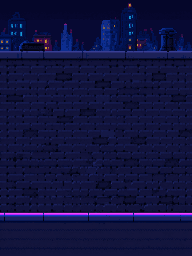
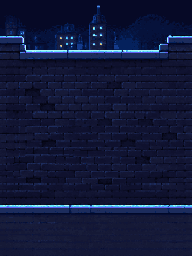
fix(tire_shop): recolor to Night City Props palette, drop magenta/pink
Chief correction: replicate the NEON TIRES mockup's layout/composition
exactly, but always recolor into the game's own locked palette, never
keep the mockup's own colors. The v2/v3 tire_shop build kept the
reference's magenta/pink neon on top of the exact layout - wrong.

- Recoloured all 4 reference crops via HSV hue-remap (magenta/pink band
  -> cyan/lavender band, sat/value preserved) before using them as
  PixelLab style_image sources, since style_image colors dominate
  output even against explicit no-magenta text instructions.
- Regenerated all 4 panels (left/wall_bay/front_bay/right) from the
  recoloured sources. Same layout/content as before (GRIP CITY banner,
  NEW/USED/REPAIR/CUSTOM/BALANCE signpost, RUSS'S TIRE SHOP sign,
  roll-up door+car, 24HR badge) - zero magenta/pink now.
- Recomputed trim bboxes in ASSET_MANIFEST.json for all 4 entries,
  fixed stale 'magenta' wording in two notes fields.
- Rewrote tire_shop/README.md: documents the corrected standing rule
  (mockup layout/content governs, mockup's own palette never does) and
  the style_image recolor-before-use technique.
- This is now a standing rule for all future mockup-driven assets, not
  just tire_shop. Committed to how.md.

Tests: 2164 passed / 92 failed / 48 suites - matches pre-fix baseline,
no regressions (asset-only recolor).

Changed region(s): [[0.0, 0.0, 1.0, 0.875]]

diff --git a/assets/objects/night-city-buildings/tire_shop/README.md b/assets/objects/night-city-buildings/tire_shop/README.md
@@ -9,9 +9,9 @@ as `assets/objects/night-city-buildings/warehouse/` (same family — shares the
 - `wall_bay.png` — 160x256px / 5x8 tiles — chain-link fence, "GRIP CITY" banner,
   a "NEW / USED / REPAIR / CUSTOM / BALANCE" sign post, street lamp
 - `front_bay.png` — 160x256px / 5x8 tiles — the storefront identity panel: hanging
-  magenta/cyan neon sign reading "RUSS'S TIRE SHOP" above an open roll-up garage
+  cyan neon sign reading "RUSS'S TIRE SHOP" above an open roll-up garage
   door with a car parked inside, rooftop pipes/tank
-- `right.png` — 128x256px / 4x8 tiles — "24 HR" magenta neon badge, street lamp,
+- `right.png` — 128x256px / 4x8 tiles — "24 HR" cyan neon badge, street lamp,
   brick/stone pillar wall
 
 Placed left-to-right (`left`, `wall_bay`, `front_bay`, `right`) the panels line up
@@ -20,7 +20,7 @@ edge-to-edge into one 640x256px / 20x8 tile storefront, matching the warehouse's
 
 ## Standing-rule exceptions for this family (direct Chief correction, 2026-10-03)
 
-This family intentionally breaks from two rules that otherwise apply to every
+This family intentionally breaks from one rule that otherwise applies to every
 other lvl-1 building family:
 
 1. **Brick/stone wall material, not corrugated sheet metal.** Chief explicitly
@@ -29,17 +29,23 @@ other lvl-1 building family:
    masonry instead, cropped directly from his reference screenshot. **This is now
    the new default wall material for every future building family** going
    forward — not just this one.
-2. **Reference image followed closely, not mood-only.** Chief supplied a "NEON
-   TIRES" garage screenshot and asked for "an exact replica... just change the
-   name." Per `docs/BUILDING_FAMILY_ASSET_SPEC.md` section 6, a reference
-   normally governs mood/composition only, never palette or layout — that rule
-   was overridden here on explicit instruction. All composition elements from
-   the reference were kept (fence banner, signpost, roll-up door + car, rooftop
-   pipes/tank, 24 HR badge, magenta/cyan neon palette including magenta/pink,
-   which the standing Night City Props palette otherwise forbids). The ONLY
-   change from the reference is the business name: "NEON TIRES" → "RUSS'S TIRE
-   SHOP" on the main sign. "GRIP CITY" and the "NEW/USED/REPAIR/CUSTOM/BALANCE"
-   signpost are unrelated to the shop's own name and were kept as-is.
+
+**Reference-image rule, corrected 2026-10-03 (standing, applies to ALL mockup-driven
+assets going forward, not just this one):** Chief supplied a "NEON TIRES" garage
+screenshot and asked for the layout/composition replicated closely, name swapped
+to "RUSS'S TIRE SHOP". The first build (v2/v3) kept the reference's own magenta/
+pink neon colors on top of the exact layout — Chief corrected this: **replicate a
+mockup's layout/composition/content exactly, but ALWAYS recolor it into the game's
+own locked Night City Props palette** (deep indigo/near-black base, cyan/lavender/
+steel-blue accents, no magenta/pink), regardless of what colors the mockup itself
+uses. A reference image's layout and content govern; its own palette never does.
+
+All composition elements from the reference were kept (fence banner, signpost,
+roll-up door + car, rooftop pipes/tank, 24 HR badge) — only the business name
+changed ("NEON TIRES" → "RUSS'S TIRE SHOP") and the neon color changed from the
+reference's magenta/pink to the game's cyan/lavender palette. "GRIP CITY" and the
+"NEW/USED/REPAIR/CUSTOM/BALANCE" signpost are unrelated to the shop's own name
+and were kept as-is.
 
 The plain-panel rule (section 2) still applies in spirit — `left.png` and
 `right.png` carry only the brick wall + one small identity badge each (skyline
@@ -50,18 +56,23 @@ from the reference, not optional placeable props.
 ## Style source
 
 Generated via PixelLab `create_image_pro_flash`, each panel using a cropped/
-downscaled region of the Chief-supplied reference screenshot itself as the
-`style_image` (not a Night City Props crop, unlike every other family) — brick
-wall texture for `left`, the fence/banner/signpost region for `wall_bay`, the
-main sign/door/car region for `front_bay`, the 24 HR badge/pillar region for
-`right`. Generated with `no_background: false` (background removal erased the
-whole `front_bay` image on first attempt — opaque generation + a border
-flood-fill alpha pass was used instead to isolate content cleanly).
+downscaled region of the Chief-supplied reference screenshot as the `style_image`
+— brick wall texture for `left`, the fence/banner/signpost region for `wall_bay`,
+the main sign/door/car region for `front_bay`, the 24 HR badge/pillar region for
+`right`. **The reference crops themselves were recoloured first** (HSV hue-remap,
+magenta/pink band → cyan/lavender band, saturation/value preserved) before being
+used as `style_image` — a `style_image` region's own colors dominate PixelLab's
+output even against explicit "no magenta/pink" text instruction, so the fix has
+to happen in the source image, not just the prompt text. Generated with
+`no_background: false` (background removal erased the whole `front_bay` image on
+an earlier attempt — opaque generation + a border flood-fill alpha pass was used
+instead to isolate content cleanly).
 
 **Reference example for building-family *structure* (panel count/widths):
-WAREHOUSE.** The *reference-image/palette/material* approach for this specific
-family came from Chief's own screenshot and correction, not from WAREHOUSE or any
-other existing family.
+WAREHOUSE.** The *reference-image/material* approach for this specific family
+came from Chief's own screenshot and correction, not from WAREHOUSE or any other
+existing family — but the *palette* always comes from Night City Props, per the
+corrected standing rule above.
 
 ## Status
 
